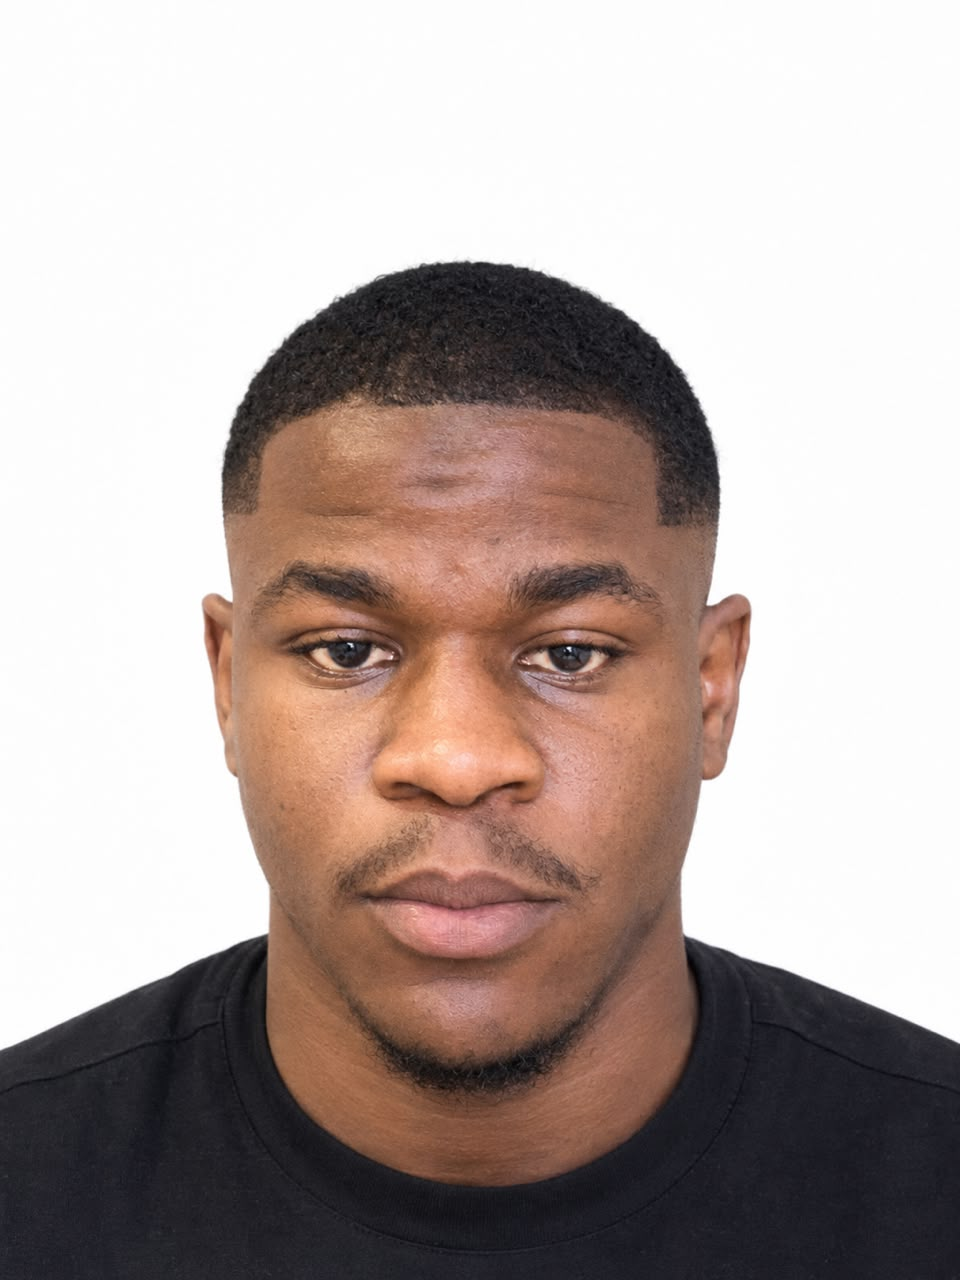
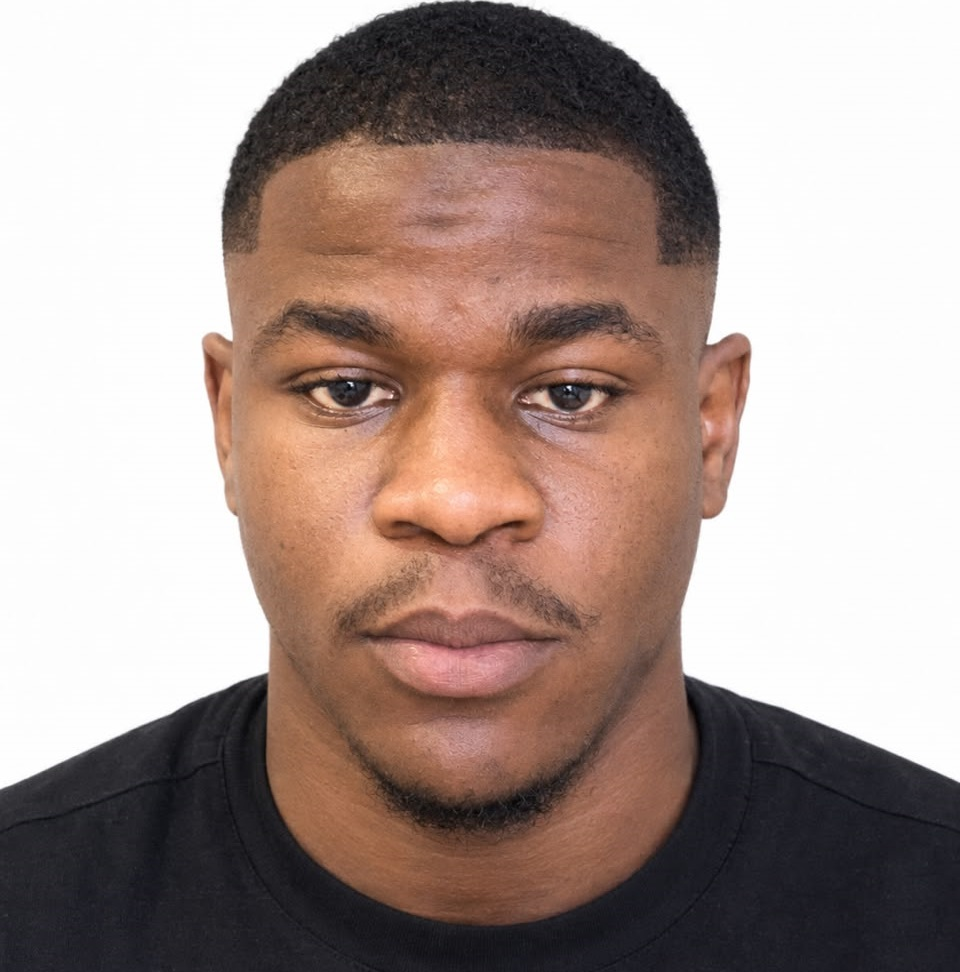
add spacing to hero buttons, update project img remove profile stats

diff --git a/index.html b/index.html
@@ -66,28 +66,20 @@
                 <a class="btn btn-primary" href="#contact">Get a Website Quote <i class="fa-brands fa-whatsapp"  aria-hidden="true"></i></a>
                 <a class="btn btn-secondary" href="#projects">View My Work</a>
             </div>
-            <div class="hero-stats">
-                <div class="stat">
-                    <div class="stat-value">Real</div>
-                    <div class="stat-label">Projects to Explore</div>
-                </div>
-                <div class="stat">
-                    <div class="stat-value">Mobile</div>
-                    <div class="stat-label">Friendly Layouts</div>
-                </div>
-                <div class="stat">
-                    <div class="stat-value">Clear</div>
-                    <div class="stat-label">Project Communication</div>
-                </div>
-            </div>
+
         </div>
         <div class="hero-visual">
-           <img src="images/marveey-on-suite.jpeg" alt="Marveey dev profile picture">
+           <img src="images/marveey-on-suite.jpeg" alt="Marveey dev profile picture" class="hero-img">
         </div>
     </section>
 
     <!-- About Section -->
     <section class="about fades" id="about">
+        <!-- about image -->
+          <div >
+            <img src="images/marveey-on-tshirt.jpeg" alt="Profile Picture" class="profile-pic" loading="lazy">
+        </div>
+        <!-- about content -->
         <div class="about-content">
             <h2>About Me</h2>
             <p>I'm Marvellous Ediagbonya, the person behind Marveey Dev. I build websites that help businesses explain what they offer and make it easier for customers to get in touch.</p>
@@ -95,9 +87,7 @@
             <p>I work with small businesses and other clients who need a clear, useful website. We can discuss your goals, the features you need and a budget that works for your project.</p>
             <a href="#contact" class="btn btn-primary about-cta">Discuss Your Project</a>
         </div>
-        <div >
-            <img src="images/marveey-on-tshirt.jpeg" alt="Profile Picture" class="profile-pic" loading="lazy">
-        </div>
+      
     </section>
 
     <!-- Skills Section -->

diff --git a/style.css b/style.css
@@ -73,12 +73,13 @@
         h1, h2, h3, h4, h5, h6 {
             font-weight: 600;
             letter-spacing: -0.015em;
-            line-height: 1.2;
+            line-height: 1.1;
         }
 
-        h1 {
-            font-size: clamp(2.5rem, 8vw, 4.5rem);
+    body   h1 {
+            font-size: clamp(2.5rem, 8vw, 4rem);
             font-weight: 700;
+            line-height: -1.1;
         }
         span.beautiful {
             color: var(--color-dark-accent);
@@ -96,7 +97,7 @@
 }
         p {
             color: var(--text-muted);
-            font-size: clamp(0.95rem, 2vw, 1.1rem);
+            font-size: clamp(0.95rem, 2vw, 1rem);
         }
 
         a {
@@ -186,7 +187,7 @@
         .nav-link {
             color: var(--text-muted);
             font-weight: 500;
-            font-size: 1.1rem;
+            font-size: 1rem;
             transition: color var(--transition-fast);
             position: relative;
         }
@@ -399,7 +400,7 @@
             color: #90ee90;
         }
         }
-        .hero-img, .profile-p {
+        .hero-img, .profile-pic {
             border-radius: 50px;
         }
         /* buttton styles */
@@ -1335,6 +1336,7 @@
                .hero-buttons {
             display: flex;
           flex-direction: column;
+          gap: 1rem;
         }
                .footer-grid {
                 grid-template-columns: 1fr;
